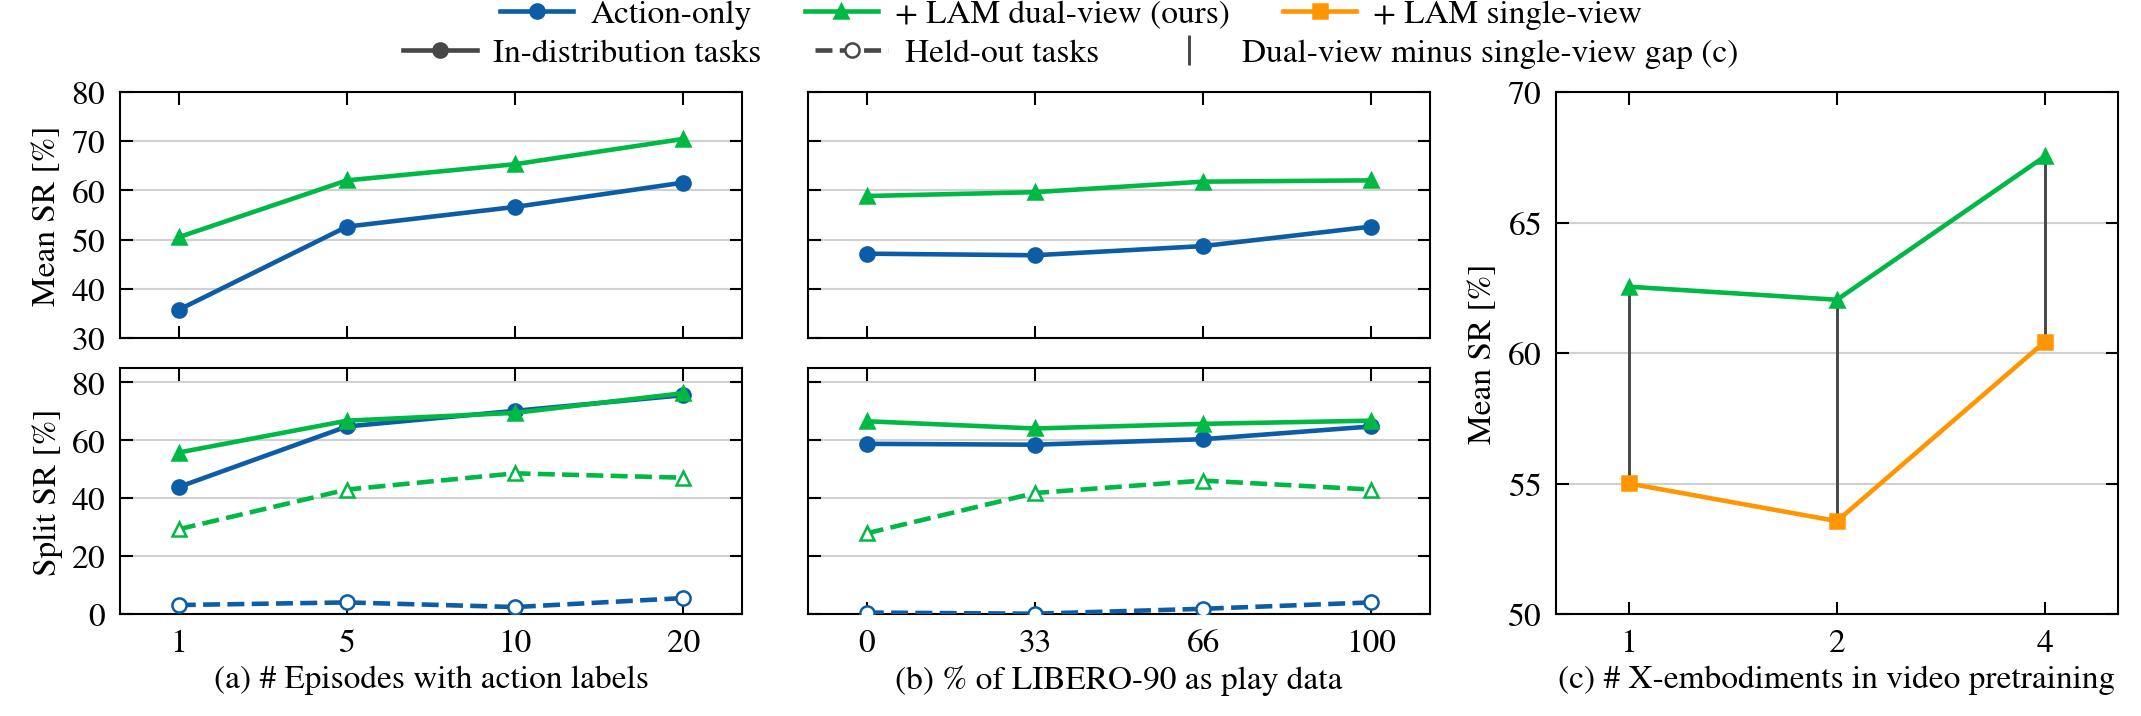
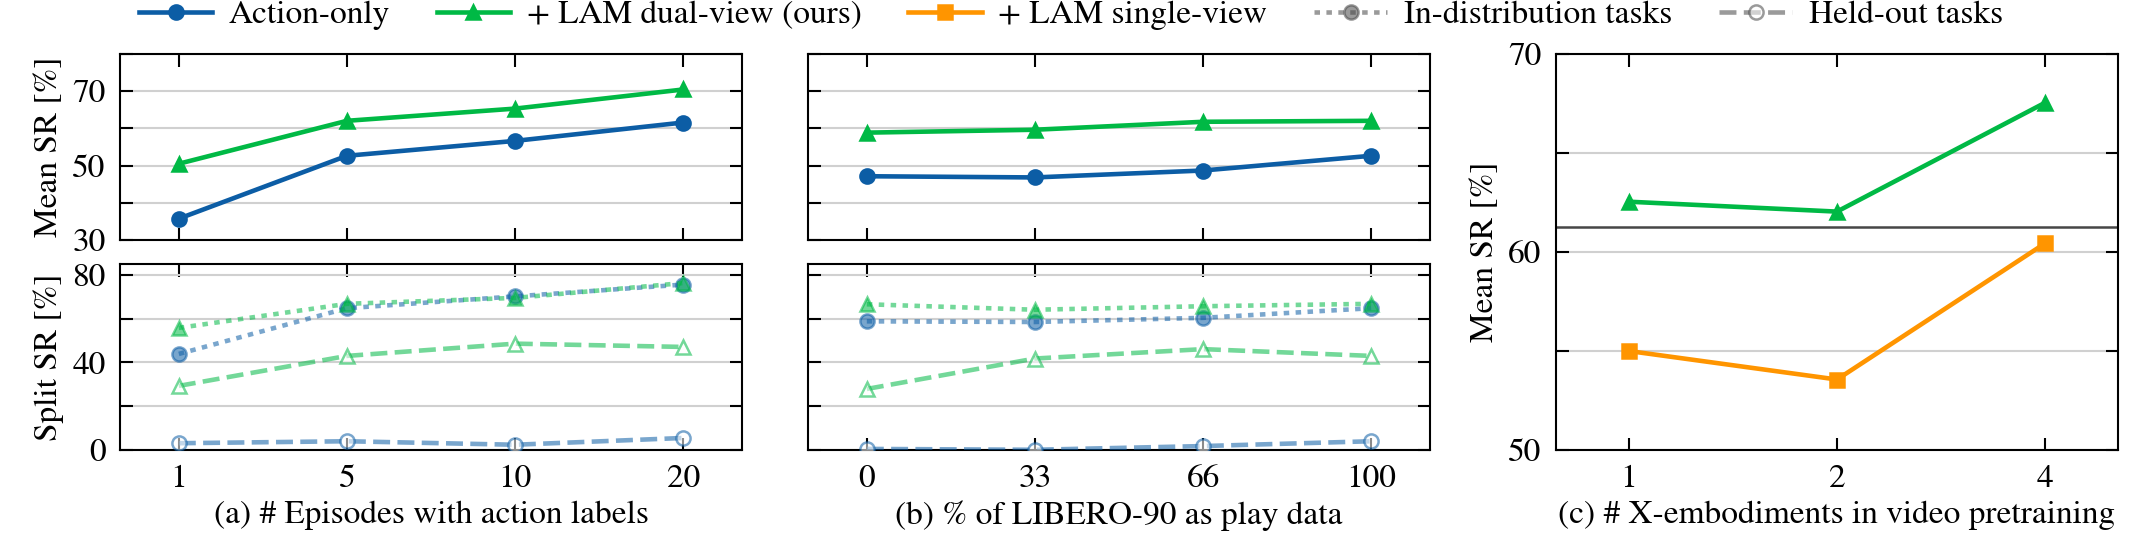
libero_scaling_row: one legend row, shorter rows, every second y label, muted splits, (c) separator rule
Splits are now dotted (in-distribution, filled) and dashed (held-out, hollow)
at alpha 0.55; only the mean is the solid opaque line. Legend collapsed to one
row of five, BODY_IN 0.82 -> 0.62, y tick labels on every second tick. (c)
replaces the vertical ties with a horizontal rule halfway between the lowest
dual-view and the highest single-view mean (no legend entry); the script
refuses to draw it if the curves ever cross.

Claude-Session: https://claude.ai/code/session_018iqPdRCpMdDBJKapJddPky

diff --git a/plot_libero_scaling_row.py b/plot_libero_scaling_row.py
@@ -7,9 +7,10 @@ success rate over all 40 tasks, their BOTTOM panel the two task splits as
 separate lines (in-distribution solid with filled markers, held-out dashed with
 hollow markers). Column (c), the cross-embodiment sweep, spans both rows: it
 draws the 40-task mean for the dual-view and the single-view (sideview-only
-teacher, ``sideview_sr``) arm, with a thin vertical tie at each x from the
-single-view point up to the dual-view point -- the gap is the point of the
-panel, and the ties show it is positive at every count. The mean is the 32/8
+teacher, ``sideview_sr``) arm, with a thin horizontal rule between the two
+curves -- halfway between the lowest dual-view and the highest single-view
+point, so it exists only while one arm is above the other everywhere, which is
+the point of the panel (the script fails if the curves cross). The mean is the 32/8
 task-weighted mean of the two stored splits, derived here rather than stored,
 the way libero_xemb_sweep's Total is. Run with no arguments:
 
@@ -39,9 +40,12 @@ cross-embodiments (dual-view) are one and the same run; and (c) is on its own
 zoomed y axis.
 
 TWO FACTORS, TWO CHANNELS (README.md). Method is colour plus marker shape; the
-split is line style plus marker fill, and each factor gets its own legend row.
-The mean row and the split row each share one y axis across (a) and (b),
-labelled once on the left; (c) carries its own tick labels. The x positions
+split is line style plus marker fill plus weight: the mean is the solid, opaque
+line, the splits are dotted (in-distribution, filled) and dashed (held-out,
+hollow) and drawn at SPLIT_ALPHA so the mean stays dominant without the colour
+changing. One legend row carries both factors. The mean row and the split row
+each share one y axis across (a) and (b), labelled once on the left with
+every second tick labelled; (c) carries its own tick labels. The x positions
 are categorical and evenly spaced -- the sweeps are not linear in their own
 units (1/5/10/20 episodes, 1/2/4 embodiments) and the table reads them as
 steps.
@@ -72,15 +76,17 @@ SWEEP_XLABELS = {
 SPLIT_COLS = ["budget", "play"]        # the two-row columns
 SPAN_COL = "xemb"                      # spans both rows, mean only
 
-# Split channel (bottom row): in-distribution solid / filled, held-out dashed /
-# hollow. The mean (top row and (c)) is solid / filled too -- it is the only
-# thing in its panels, so nothing competes with it.
+# Split channel (bottom row): in-distribution dotted / filled, held-out dashed /
+# hollow, both at SPLIT_ALPHA; only the mean (top row and (c)) is the plain
+# solid, opaque line.
 SPLITS = ["nonh", "h"]
-SPLIT_LINE = {"nonh": "-", "h": "--"}
+SPLIT_LINE = {"mean": "-", "nonh": (0, (1.2, 1.4)), "h": "--"}
 SPLIT_FILLED = {"nonh": True, "h": False}
+SPLIT_ALPHA = 0.55
 SPLIT_LABELS = {"nonh": "In-distribution tasks", "h": "Held-out tasks"}
 N_TASKS = {"nonh": 32, "h": 8}
 
+# Ticks every step, labels on every second one (set_yticks + a blank label).
 MEAN_YLIM, MEAN_YTICKS = (30, 80), [30, 40, 50, 60, 70, 80]
 SPLIT_YLIM, SPLIT_YTICKS = (0, 85), [0, 20, 40, 60, 80]
 # (c) is all in the 50s and 60s; on the split axis the dual-vs-single gap would
@@ -93,11 +99,11 @@ YTICKS_C_IN = 0.20    # (c)'s own tick labels, taken out of its slot
 GUTTER_IN = 0.22
 RIGHT_PAD_IN = 0.08
 LEGEND_ROW_IN = 0.13
-LEGEND_ROWS = 2       # one row per factor: methods, then splits
+LEGEND_ROWS = 1       # both factors in one row
 LEGEND_GAP_IN = 0.05
-ROW_GAP_IN = 0.10
+ROW_GAP_IN = 0.08
 XTICKS_IN = 0.34
-BODY_IN = 0.82        # one row's plotting height
+BODY_IN = 0.62        # one row's plotting height
 FIG_HEIGHT_IN = (LEGEND_ROWS * LEGEND_ROW_IN + LEGEND_GAP_IN
                  + 2 * BODY_IN + ROW_GAP_IN + XTICKS_IN)
 
@@ -150,16 +156,18 @@ def main():
     fig = plt.figure(figsize=(w, h))
 
     def line_kw(mi, sp):
-        return dict(color=style_for(mi), linestyle=SPLIT_LINE.get(sp, "-"),
+        return dict(color=style_for(mi), linestyle=SPLIT_LINE[sp],
                     marker=style.MARKERS[mi], markersize=3.4, markeredgewidth=0.6,
                     markerfacecolor=style_for(mi) if SPLIT_FILLED.get(sp, True) else "white",
-                    markeredgecolor=style_for(mi), linewidth=1.1)
+                    markeredgecolor=style_for(mi), linewidth=1.1,
+                    alpha=1.0 if sp == "mean" else SPLIT_ALPHA)
 
     def axis_common(ax, xs, ylim, yticks):
         ax.set_xlim(-0.35, len(xs) - 0.65)
         ax.set_xticks(np.arange(len(xs)))
         ax.set_ylim(*ylim)
         ax.set_yticks(yticks)
+        ax.set_yticklabels([str(t) if k % 2 == 0 else "" for k, t in enumerate(yticks)])
         ax.set_axisbelow(True)
         ax.grid(axis="y")
         ax.minorticks_off()
@@ -201,12 +209,17 @@ def main():
         if sub[m].isna().all():
             continue
         ys[m] = 100 * np.asarray(series(sub, m, "mean", xs), float)
-    # The ties: drawn first so the markers sit on top of them. Thin, muted and
-    # vertical, so they read as a measurement of the gap, not as a third series.
-    for k in range(len(xs)):
-        lo, hi = ys["sideview_sr"][k], ys["video_sr"][k]
-        ax.plot([pos[k], pos[k]], [lo, hi], color=style.INK_MUTED, linestyle="-",
-                linewidth=0.7, solid_capstyle="butt", zorder=2)   # explicit: the style's prop cycle would dash it
+    # The separator: a thin muted rule halfway between the lowest dual-view and
+    # the highest single-view mean. It only makes sense while the curves do not
+    # cross, so refuse to draw a lie if they ever do.
+    lo_dual, hi_single = ys["video_sr"].min(), ys["sideview_sr"].max()
+    if lo_dual <= hi_single:
+        raise SystemExit(f"(c): dual-view ({lo_dual:.1f}) no longer above single-view "
+                         f"({hi_single:.1f}) everywhere -- drop the separator rule")
+    ax.axhline((lo_dual + hi_single) / 2, color=style.INK_MUTED, linestyle="-",
+               linewidth=0.6, zorder=2)   # linestyle explicit: the style's prop cycle would dash it
+    print(f"    (c) separator rule at {(lo_dual + hi_single) / 2:.2f}% "
+          f"(dual-view min {lo_dual:.1f}, single-view max {hi_single:.1f})")
     for mi, m in enumerate(METHODS):
         if m in ys:
             ax.plot(pos, ys[m], zorder=3, **line_kw(mi, "mean"))
@@ -215,23 +228,20 @@ def main():
     ax.set_xlabel(SWEEP_XLABELS[SPAN_COL], labelpad=1.5)
     ax.set_ylabel("Mean SR [%]", labelpad=2)
 
-    # Two legend rows, one per factor; the split row in neutral ink so it reads
-    # as a style key, not a fourth method.
+    # One legend row, both factors: the three methods (as their mean line), then
+    # the two split styles in neutral ink so they read as a key, not as methods.
     method_handles = [Line2D([], [], label=METHOD_LABELS[m], **line_kw(mi, "mean"))
                       for mi, m in enumerate(METHODS)]
     split_handles = [Line2D([], [], color=style.INK_MUTED, linestyle=SPLIT_LINE[sp],
                             marker="o", markersize=3.4, markeredgewidth=0.6,
                             markerfacecolor=style.INK_MUTED if SPLIT_FILLED[sp] else "white",
-                            markeredgecolor=style.INK_MUTED, linewidth=1.1, label=SPLIT_LABELS[sp])
+                            markeredgecolor=style.INK_MUTED, linewidth=1.1, alpha=SPLIT_ALPHA,
+                            label=SPLIT_LABELS[sp])
                      for sp in SPLITS]
-    split_handles.append(Line2D([], [], color=style.INK_MUTED, linestyle="none",
-                                marker="|", markersize=7, markeredgewidth=0.7,
-                                label="Dual-view minus single-view gap (c)"))
-    kw = dict(loc="upper center", frameon=False, borderaxespad=0, borderpad=0,
-              handlelength=2.2, handletextpad=0.5, columnspacing=1.6)
-    fig.legend(handles=method_handles, bbox_to_anchor=(0.5, 1.0), ncol=len(method_handles), **kw)
-    fig.legend(handles=split_handles, bbox_to_anchor=(0.5, 1.0 - LEGEND_ROW_IN / h),
-               ncol=len(split_handles), **kw)
+    handles = method_handles + split_handles
+    fig.legend(handles=handles, loc="upper center", bbox_to_anchor=(0.5, 1.0), ncol=len(handles),
+               frameon=False, borderaxespad=0, borderpad=0, handlelength=2.2, handletextpad=0.5,
+               columnspacing=1.4)
 
     style.save(fig, OUT_NAME)
 
